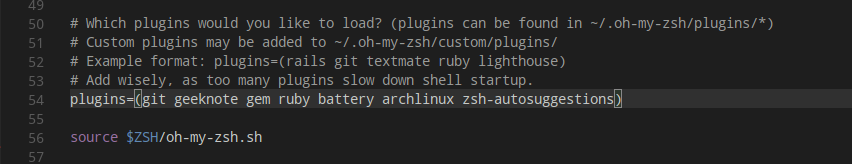
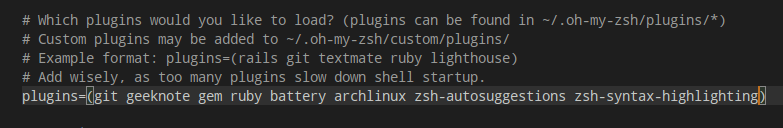
Fix

Changed region(s): [[0.0307, 0.0938, 0.9808, 0.875], [0.0307, 0.9062, 0.0613, 0.9688], [0.0307, 0.0, 0.0613, 0.0625]]

diff --git a/_posts/2017-07-8-zsh-and-me.md b/_posts/2017-07-8-zsh-and-me.md
@@ -53,11 +53,11 @@ To install, use this command (Remember Arch users can just keep using the AUR to
 
 > git clone https://github.com/zsh-users/zsh-syntax-highlighting.git ${ZSH_CUSTOM:-~/.oh-my-zsh/custom}/plugins/zsh-syntax-highlighting
 
-There is a beautiful config file called '.zshrc' in your home folder. Remember it's hidden so just enable hidden files or folder in your file manager. You can do this by simply using the shortcut <kbd>Ctrl<kbd> + <kbd>H<kbd>
+There is a beautiful config file called '.zshrc' in your home folder. Remember it's hidden so just enable hidden files or folder in your file manager. You can do this by simply using the shortcut <kbd>Ctrl</kbd> + <kbd>H</kbd>
 
-Open the zshrc file with your favorite text editor. Look for the plugins entry and add 'zsh-autocompletion' to it
+Open the zshrc file with your favorite text editor. Look for the plugins entry and add 'zsh-syntax-highlighting' to it. It should always be the last plugin in the array.
 
-![zsh-autocompletion](/assets/image/zshrc-plugins.png)
+![zsh-syntax-highlighting](/assets/image/zshrc-plugins.png)
 
 Save the file and reload, your colors may finally show up. 
 You can browse this [link](https://github.com/robbyrussell/oh-my-zsh/wiki/themes) for themes to choose from. Once you find a nice theme from the list, you open the .zshrc file and edit the theme entry
